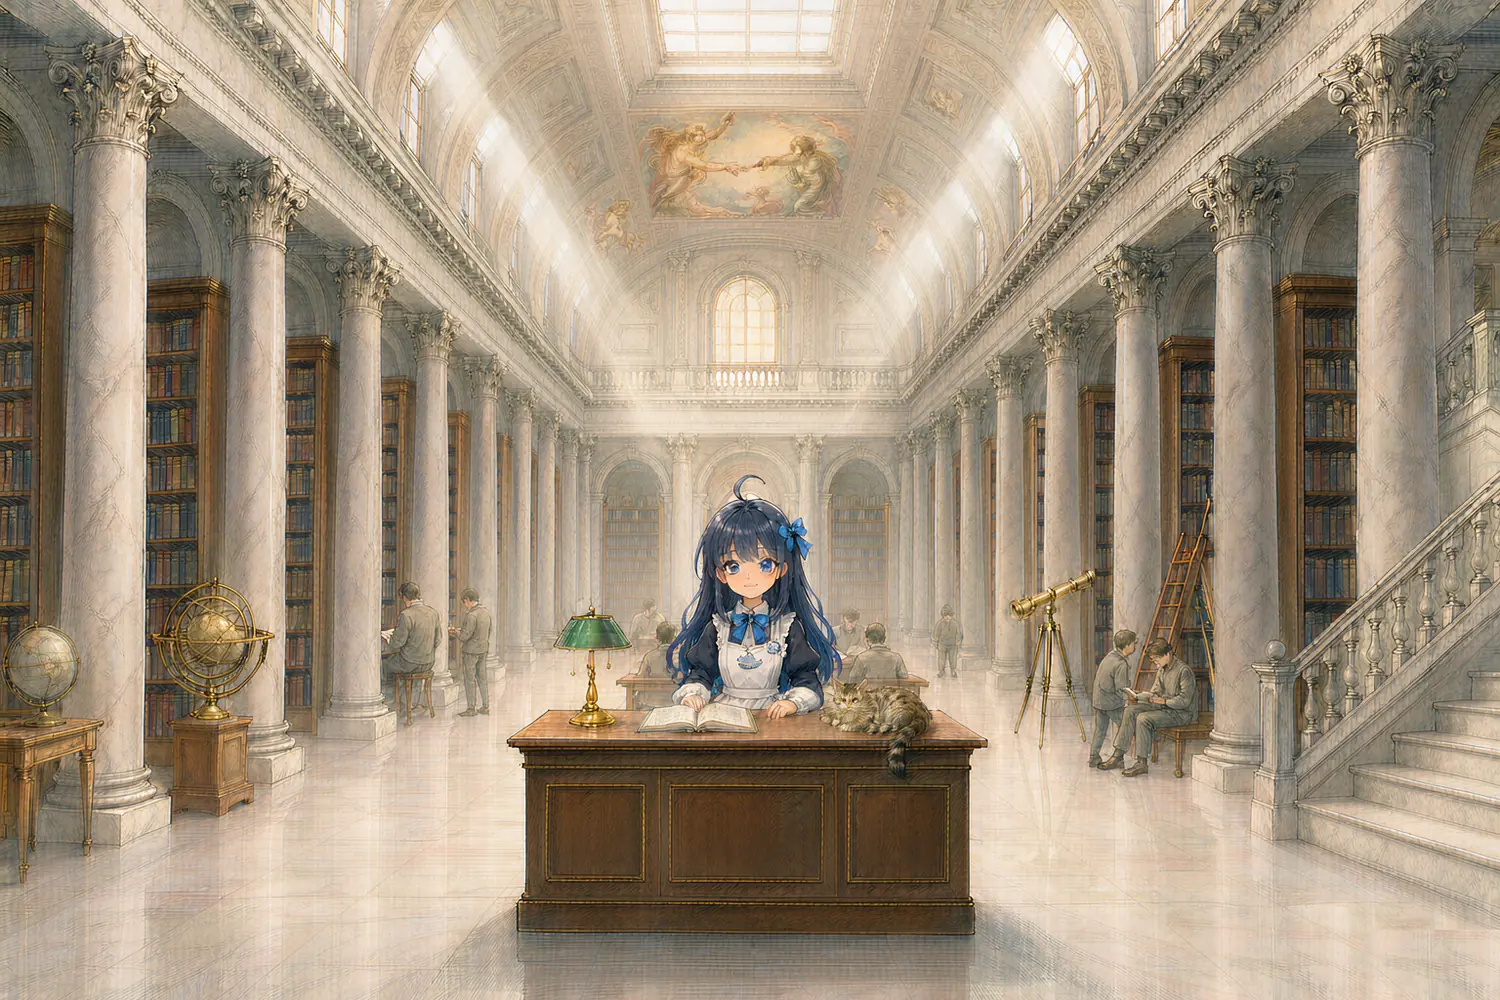
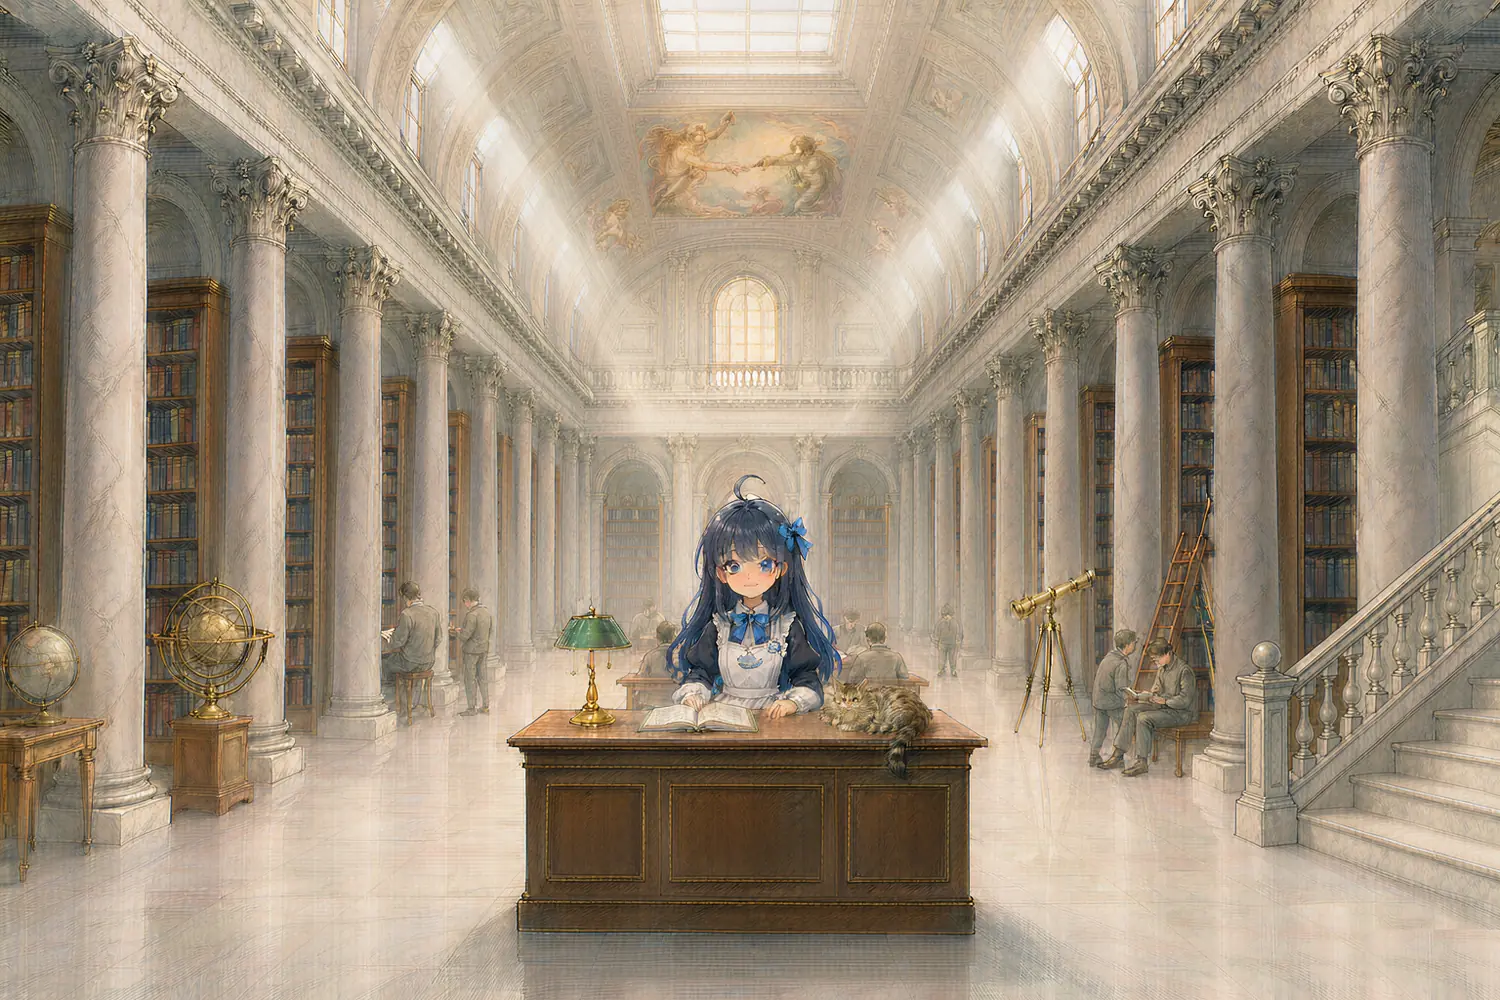
馆藏原件十二版：修正右侧楼梯底部望柱与栏杆衔接

diff --git a/index.html b/index.html
@@ -1853,11 +1853,11 @@ img{display:block}
      ⚠ 她画在图里、挂在舞台的**竖直中线附近**（头顶离中线只差 1.5% 舞台高），
         所以缩放对她的挂点几乎无影响（0.485 → 0.483，约 3px）。 */
   --ar-zoom:1.15;
-  /* 她头顶的高度（量自内厅图：十一版 0.500 × 全高 → 离舞台底边 0.498，实测刚好对上）。
+  /* 她头顶的高度（量自内厅图：十二版 0.499 × 全高 → 离舞台底边 0.498，实测刚好对上）。
      ⚠ 换内厅图**必须重量**。⚠⚠ 别用"第一条暗行／最陡下降行"这种全宽带判据 —— 穹顶的
         湿壁画、凹格与拱券轮廓都会在带子里制造假台阶（已连骗三次：0.396 / 0.424）。
      ✅ 唯一可靠：**把竖直带收窄到只压住她头发**（x 0.475–0.525），剖面会出现一条干净的大台阶
-        （十一版：195 → 163 → 125 → 99 → 88），落差就是发顶；再画线目视确认。 */
+        （十二版：184 → 159 → 135 → 122 → 104 → 87），落差就是发顶；再画线目视确认。 */
   --ar-head:calc(var(--ar-stage-h) * .498 - var(--ar-crop))}
 
 /* ── ① 内厅（门背后那一层）─────────────────────────────────────────────── */
@@ -1865,7 +1865,7 @@ img{display:block}
   transition:transform 2.6s cubic-bezier(.3,.02,.26,1)}
 .arcwall.push .arc-scene{transform:scale(calc(var(--ar-zoom,1) * 1.06))}
 .arc-hall{position:absolute;inset:0;
-  background:url("assets/archive-hall.webp?v=20260922i") center/100% 100% no-repeat}
+  background:url("assets/archive-hall.webp?v=20260922j") center/100% 100% no-repeat}
 .arc-hallv{position:absolute;inset:0;
   background:radial-gradient(ellipse 60% 44% at 50% 44%,rgba(255,252,244,.26),rgba(255,250,240,0) 72%),
     linear-gradient(180deg,rgba(58,42,24,.20),rgba(58,42,24,0) 24%,
@@ -4584,6 +4584,6 @@ footer .ft-legal b{color:var(--muted);font-weight:500}
 <script src="study-plan.js?v=20260922c"></script>
 <script src="docs.js?v=20260921c"></script>
 <script src="app.js?v=20260920f"></script>
-<script src="knowledge.js?v=20260922v"></script>
+<script src="knowledge.js?v=20260922w"></script>
 </body>
 </html>

diff --git a/knowledge.js b/knowledge.js
@@ -2287,7 +2287,7 @@ function warmGateImages() {
        门是进门第一眼（必须已经在缓存里），内厅在 760ms 后就要露出来；
        接待员（65 KB）要 2.4s 之后才淡入，留给她自己慢慢下。 */
     "assets/archive-door.webp?v=20260922a",
-    "assets/archive-hall.webp?v=20260922i"
+    "assets/archive-hall.webp?v=20260922j"
   ];
   list.forEach(function (u) {
     var im = new Image();
